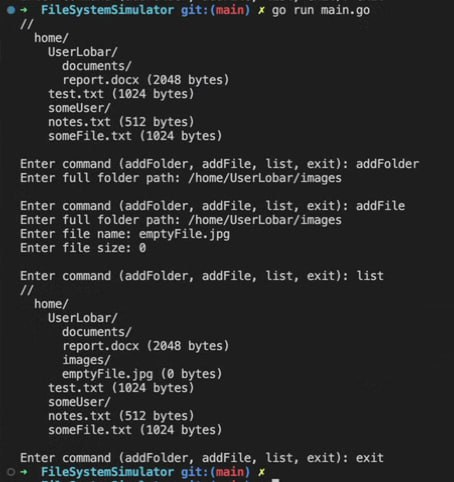
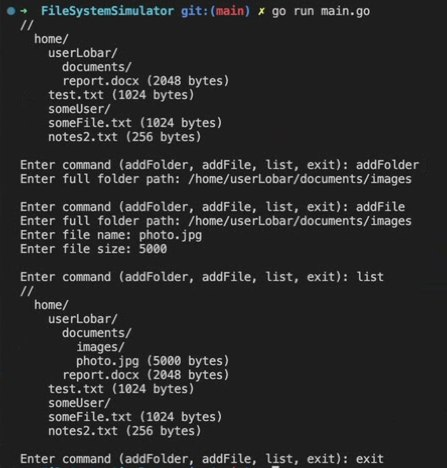
fix listing.jpg

Changed region(s): [[0.0, 0.3291, 0.9306, 1.0], [0.0, 0.0, 0.8434, 0.2991]]

diff --git a/main.go b/main.go
@@ -10,12 +10,12 @@ import (
 )
 
 func main() {
-	fs := libAdd.NewFileSystem()
+	fs := libAdd.NewFileSystem() //file system
 	fs.AddFolder("/home")
 	fs.AddFolder("/home/userLobar")
 	fs.AddFile("/home/userLobar", &libAdd.File{Name: "test.txt", Size: "1024"})
-	fs.AddFolder("/home/UserLobar/documents")
-	fs.AddFile("/home/UserLobar/documents", &libAdd.File{Name: "report.docx", Size: "2048"})
+	fs.AddFolder("/home/userLobar/documents")
+	fs.AddFile("/home/userLobar/documents", &libAdd.File{Name: "report.docx", Size: "2048"})
 	fs.AddFolder("/home/someUser")
 	fs.AddFile("/home/someUser", &libAdd.File{Name: "someFile.txt", Size: "1024"})
 	fs.AddFile("/home/someUser", &libAdd.File{Name: "notes2.txt", Size: "256"})
@@ -23,14 +23,14 @@ func main() {
 
 	for {
 		fmt.Print("\nEnter command (addFolder, addFile, list, exit): ")
-		reader := bufio.NewReader(os.Stdin)
-		command, _ := reader.ReadString('\n')
-		command = strings.TrimSuffix(command, "\n")
+		reader := bufio.NewReader(os.Stdin)         //bufer
+		command, _ := reader.ReadString('\n')       // console input
+		command = strings.TrimSuffix(command, "\n") //delete last simbol
 
 		switch command {
 		case "addFolder":
 			fmt.Print("Enter full folder path: ")
-			folderName, _ := reader.ReadString('\n')
+			folderName, _ := reader.ReadString('\n') //intput full folder path
 			folderName = strings.TrimSuffix(folderName, "\n")
 			fs.AddFolder(folderName)
 
@@ -49,7 +49,7 @@ func main() {
 			fs.AddFile(folderName, &libAdd.File{Name: fileName, Size: fileSize})
 
 		case "list":
-			fs.PrintContents(nil, "")
+			fs.PrintContents(nil, "") //printing current state simulated file sysytem
 
 		case "exit":
 			return

diff --git a/libAdd/libAdd.go b/libAdd/libAdd.go
@@ -27,7 +27,7 @@ type FileSystem struct {
 	root *Folder
 }
 
-func NewFileSystem() *FileSystem {
+func NewFileSystem() *FileSystem { // create root folder ("/")
 	return &FileSystem{root: &Folder{Name: "/"}}
 }
 
@@ -78,9 +78,9 @@ func (fs *FileSystem) PrintContents(folder *Folder, prefix string) {
 	}
 	fmt.Println(prefix + folder.Name + "/")
 	for _, item := range folder.Contents {
-		if folder, ok := item.(*Folder); ok {
+		if folder, ok := item.(*Folder); ok { //if contents is folder
 			fs.PrintContents(folder, prefix+"  ")
-		} else {
+		} else { //if contents is file
 			file := item.(*File)
 			fmt.Println(prefix + "  " + file.Name + " (" + file.Size + " bytes)")
 		}
